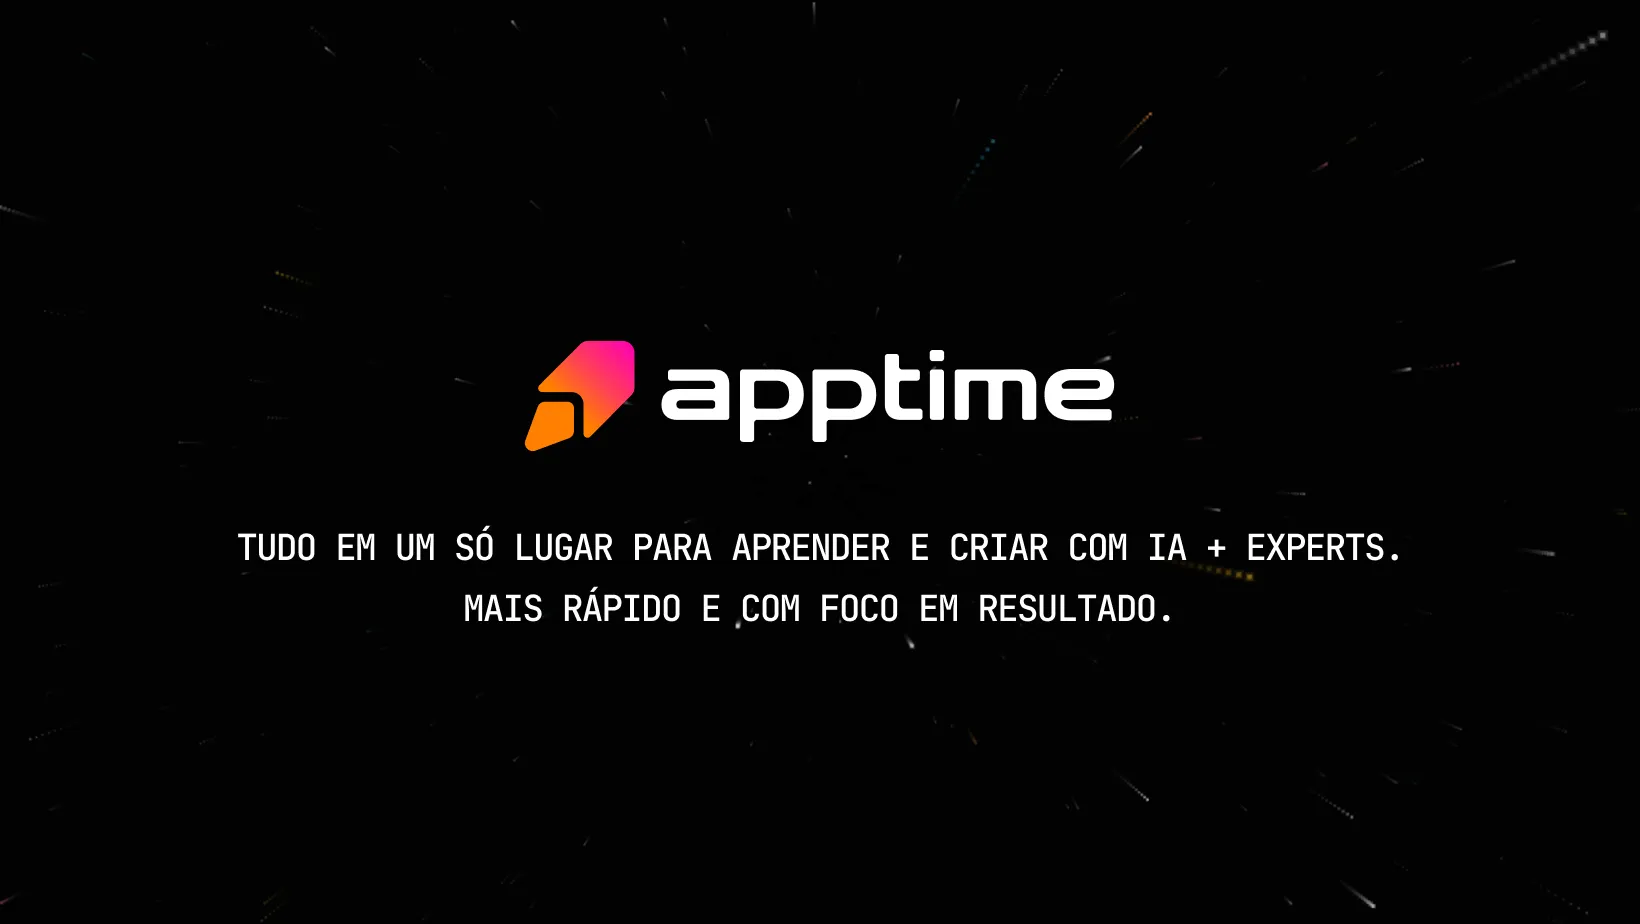
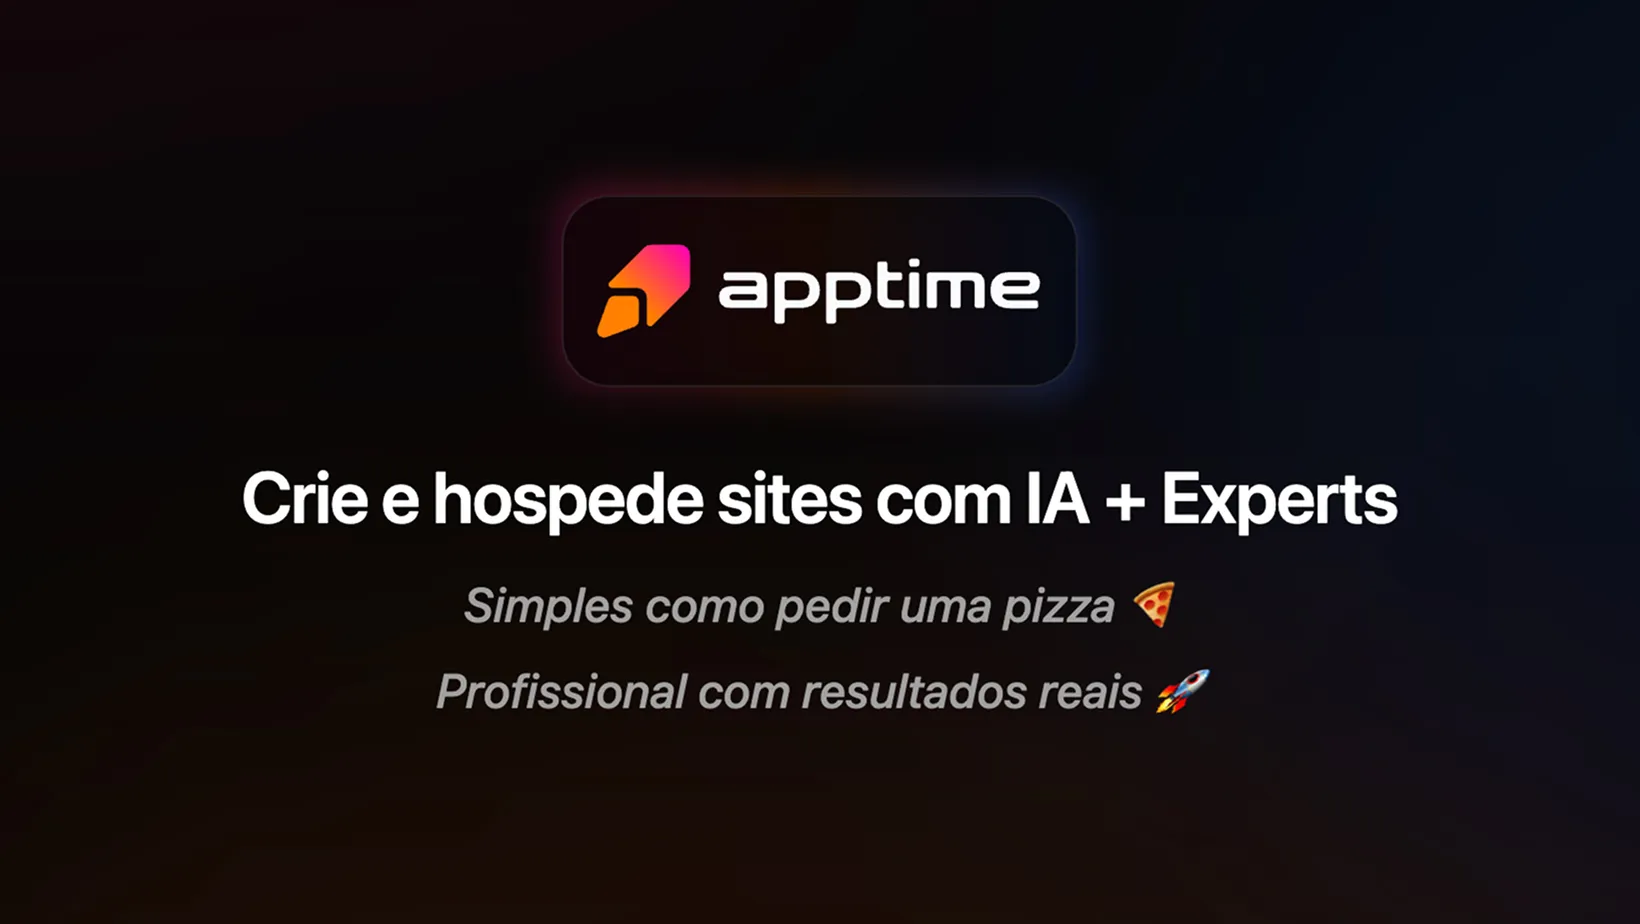
feat: Update site title, description, and social metadata with new branding, and refresh the OG image.

diff --git a/nuxt.config.ts b/nuxt.config.ts
@@ -13,14 +13,14 @@ export default defineNuxtConfig({
         lang: 'pt-BR',
         'data-theme': 'apptime',
       },
-      title: 'Apptime | Sites e IA para quem quer resultado',
+      title: 'Apptime | Crie e hospede sites com IA + Experts',
       meta: [
         { charset: 'UTF-8' },
         { name: 'viewport', content: 'width=device-width, initial-scale=1.0' },
         {
           name: 'description',
           content:
-            'Tudo em um só lugar para aprender e criar com IA + Experts. Mais rápido e com foco em resultado.',
+            'Simples como pedir uma pizza 🍕 Profissional com resultados reais 🚀',
         },
         {
           name: 'keywords',
@@ -29,24 +29,24 @@ export default defineNuxtConfig({
         },
         {
           property: 'og:title',
-          content: 'Apptime | Sites e IA para quem quer resultado',
+          content: 'Apptime | Crie e hospede sites com IA + Experts',
         },
         {
           property: 'og:description',
           content:
-            'Tudo em um só lugar para aprender e criar com IA + Experts. Mais rápido e com foco em resultado.',
+            'Simples como pedir uma pizza 🍕 Profissional com resultados reais 🚀',
         },
         { property: 'og:type', content: 'website' },
         { property: 'og:image', content: '/og-image.webp' },
         { name: 'twitter:card', content: 'summary_large_image' },
         {
           name: 'twitter:title',
-          content: 'Apptime | Sites e IA para quem quer resultado',
+          content: 'Apptime | Crie e hospede sites com IA + Experts',
         },
         {
           name: 'twitter:description',
           content:
-            'Tudo em um só lugar para aprender e criar com IA + Experts. Mais rápido e com foco em resultado.',
+            'Simples como pedir uma pizza 🍕 Profissional com resultados reais 🚀',
         },
         { name: 'twitter:image', content: '/og-image.webp' },
       ],
